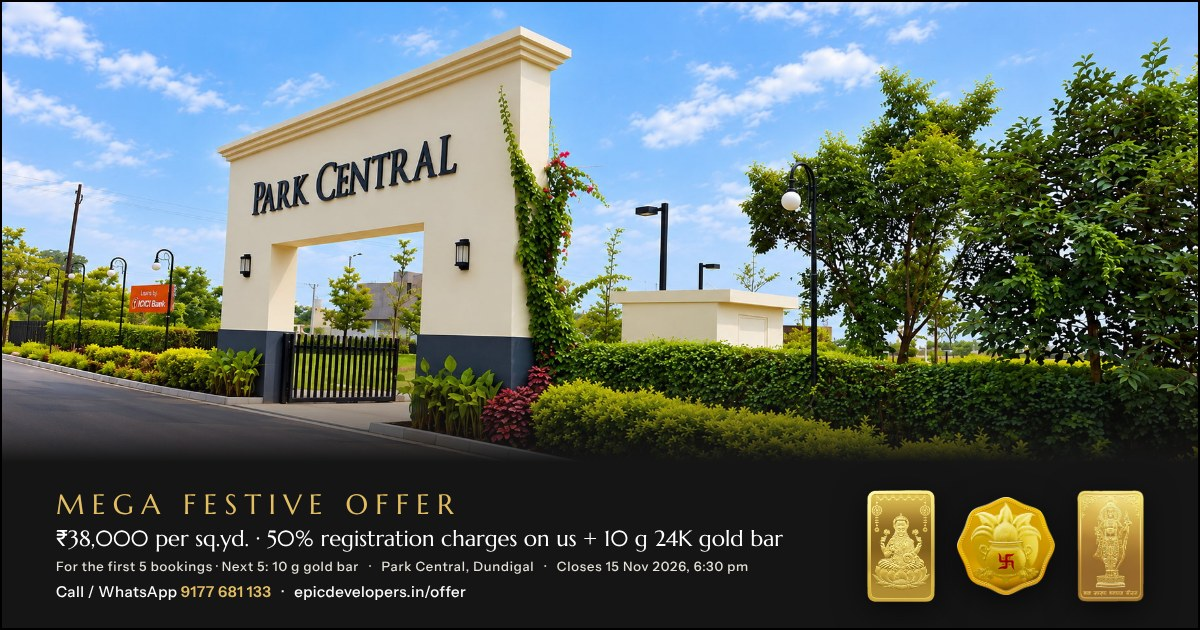
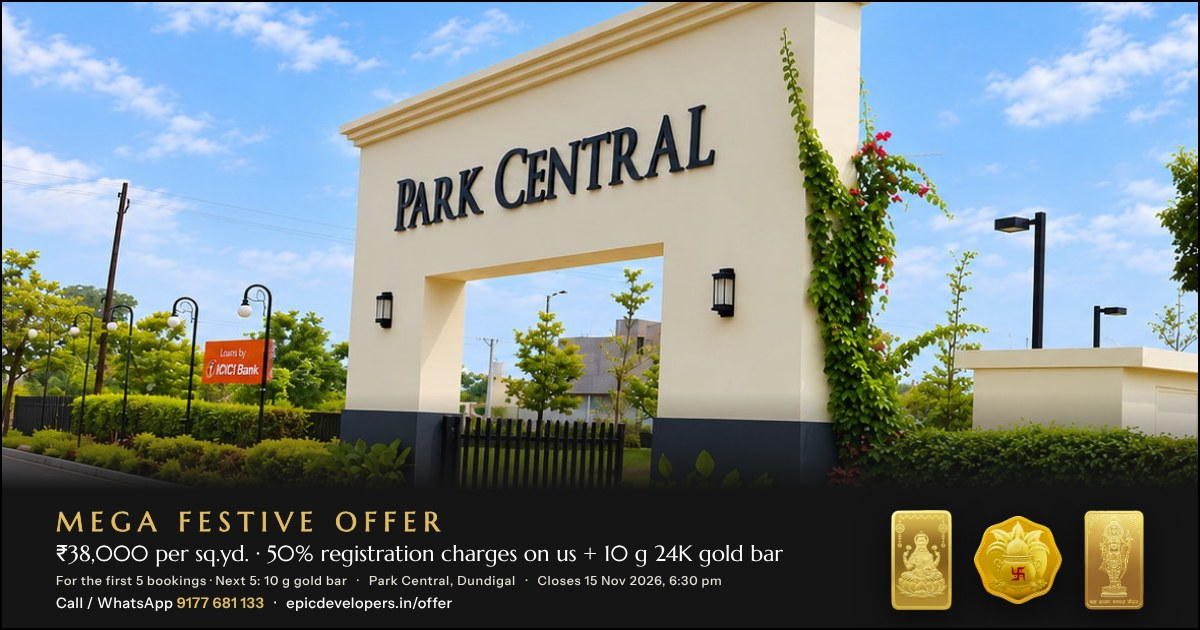
Offer: final link card (arch centred, bolder heading)

diff --git a/offer/index.html b/offer/index.html
@@ -8,7 +8,7 @@
 <meta name="description" content="Mega Festive Offer at Park Central, Dundigal — ₹38,000 per sq.yd. Buy a 24K plot, take home 24K gold. Offer closes Sunday, 15 November 2026, 6:30 pm.">
 <meta property="og:title" content="Mega Festive Offer at Park Central, Dundigal">
 <meta property="og:description" content="₹38,000 per sq.yd. Buy a 24K plot, take home 24K gold. First 5 bookings: 50% of registration charges on us + a 10 g gold bar. Closes 15 Nov 2026, 6:30 pm.">
-<meta property="og:image" content="https://epicdevelopers.in/offer/link-card.jpg?v=3">
+<meta property="og:image" content="https://epicdevelopers.in/offer/link-card.jpg?v=4">
 <meta property="og:image:width" content="1200">
 <meta property="og:image:height" content="630">
 <meta property="og:url" content="https://epicdevelopers.in/offer/">
